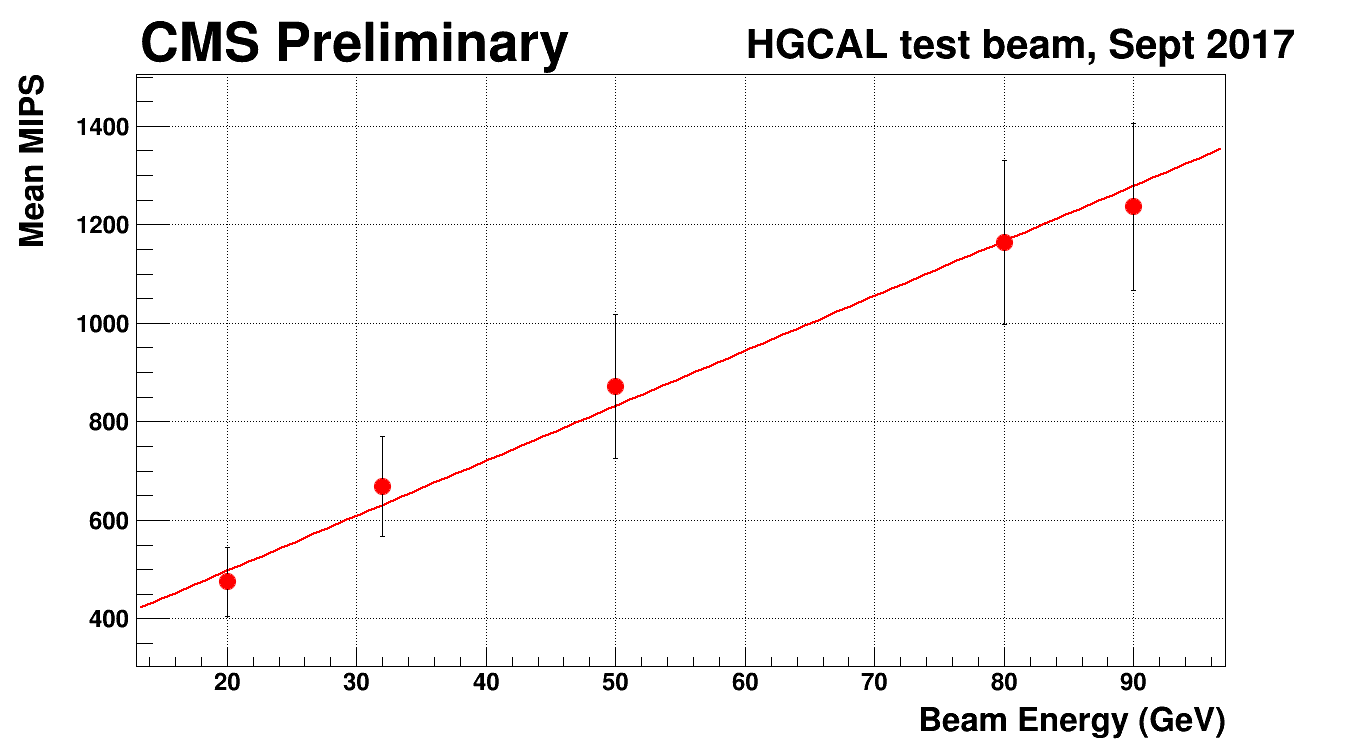
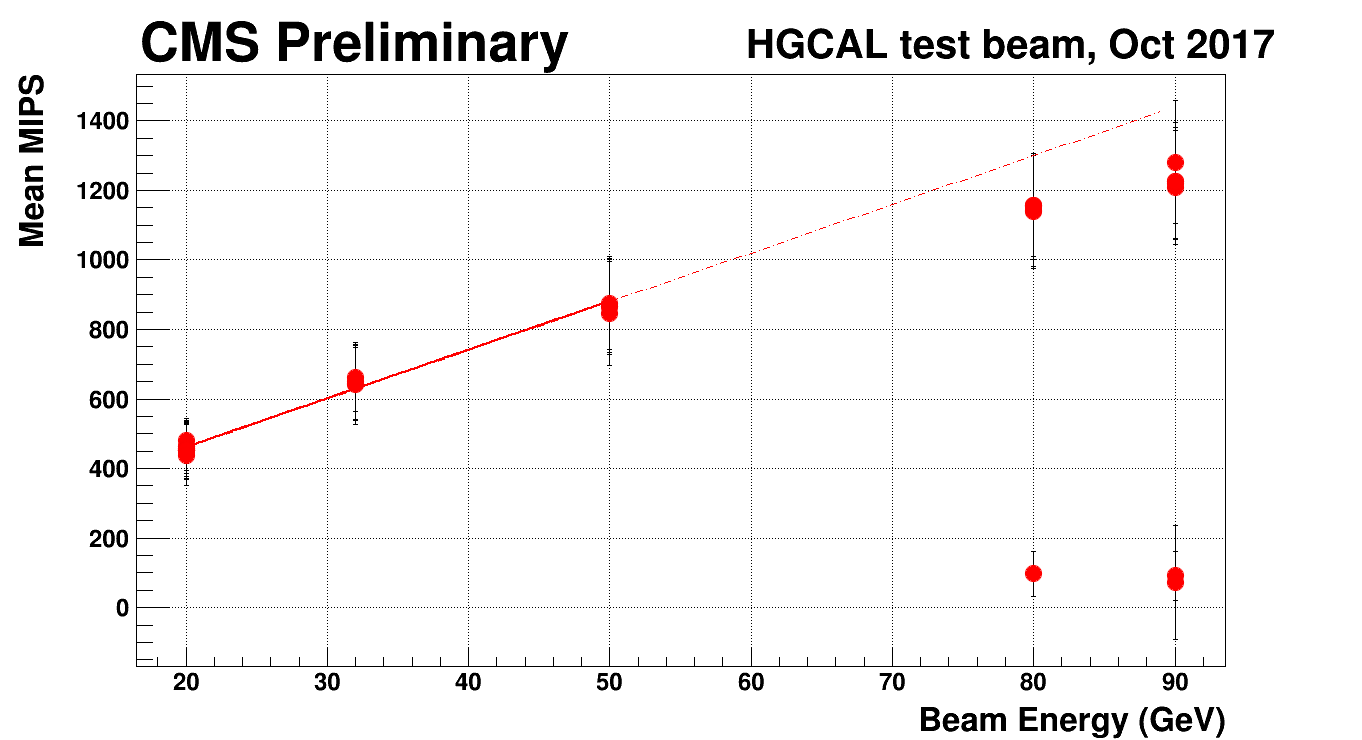
Linear Plot updated

diff --git a/plotLP.py b/plotLP.py
@@ -31,25 +31,50 @@ for line in lines:
 
 Canvas1 = ROOT.TCanvas("LinearGraph","LinearGraph",1366,768)
 Canvas1.cd()
-LGrp = ROOT.TGraphErrors(int(len(eng)),eng,mean,engErr,sig)
-LGrp.SetTitle("")
-LGrp.GetXaxis().SetTitle("Beam Energy (GeV)");
-LGrp.GetXaxis().SetLabelFont(62);
-LGrp.GetXaxis().SetTitleFont(62);
-LGrp.GetXaxis().SetTitleOffset(1.0);
-LGrp.GetXaxis().SetTitleSize(0.048);
 
-LGrp.GetYaxis().SetTitle("Mean MIPS");
-LGrp.GetYaxis().SetLabelFont(62);
-LGrp.GetYaxis().SetTitleFont(62);
-LGrp.GetYaxis().SetTitleOffset(1.0);
-LGrp.GetYaxis().SetTitleSize(0.048);
+
+LGrp = ROOT.TGraphErrors(int(len(eng)),eng,mean,engErr,sig)
 
 LGrp.SetMarkerStyle(20)
 LGrp.SetMarkerSize(2)
 LGrp.SetMarkerColor(ROOT.kRed)
-LGrp.Draw("AP")
-LGrp.Fit("pol1","QME")
+
+
+f = LGrp.Fit("pol1","QMES","",20,50)
+
+y=array('f')
+x=array('f')
+for i in range(20,90):
+    y.append(f.Parameter(1)*float(i) + f.Parameter(0))
+    x.append(float(i))
+
+LGrph = ROOT.TGraph(int(len(x)),x,y)
+# LGrph.SetMarkerStyle(20)
+LGrph.SetLineColor(ROOT.kRed)
+LGrph.SetLineStyle(5)
+# LGrph.SetMarkerSize(2)
+
+MGrp = ROOT.TMultiGraph()
+
+MGrp.Add(LGrp,"AP")
+MGrp.Add(LGrph,"AL")
+
+MGrp.Draw("A")
+
+MGrp.SetTitle("")
+MGrp.GetXaxis().SetTitle("Beam Energy (GeV)");
+MGrp.GetXaxis().SetLabelFont(62);
+MGrp.GetXaxis().SetTitleFont(62);
+MGrp.GetXaxis().SetTitleOffset(1.0);
+MGrp.GetXaxis().SetTitleSize(0.048);
+
+MGrp.GetYaxis().SetTitle("Mean MIPS");
+MGrp.GetYaxis().SetLabelFont(62);
+MGrp.GetYaxis().SetTitleFont(62);
+MGrp.GetYaxis().SetTitleOffset(1.0);
+MGrp.GetYaxis().SetTitleSize(0.048);
+
+
 # ROOT.gStyle.SetOptFit(1111)
 
 label2  = ROOT.TPaveText(0.09278351,0.9077253,0.3048601,0.9663805,"brNDC");
@@ -67,7 +92,7 @@ label1.SetFillStyle(0);
 label1.SetTextAlign(12);
 label1.SetTextSize(0.059);
 label1.SetTextFont (62);
-label1.AddText("HGCAL test beam, Sept 2017");
+label1.AddText("HGCAL test beam, Oct 2017");
 label1.Draw("same");
 Canvas1.SetGridx();
 Canvas1.SetGridy();
@@ -75,4 +100,4 @@ Canvas1.Update()
 Canvas1.SaveAs("LinearPlot.png")
 
 
-raw_input("Enter to exit")
+# raw_input("Enter to exit")
